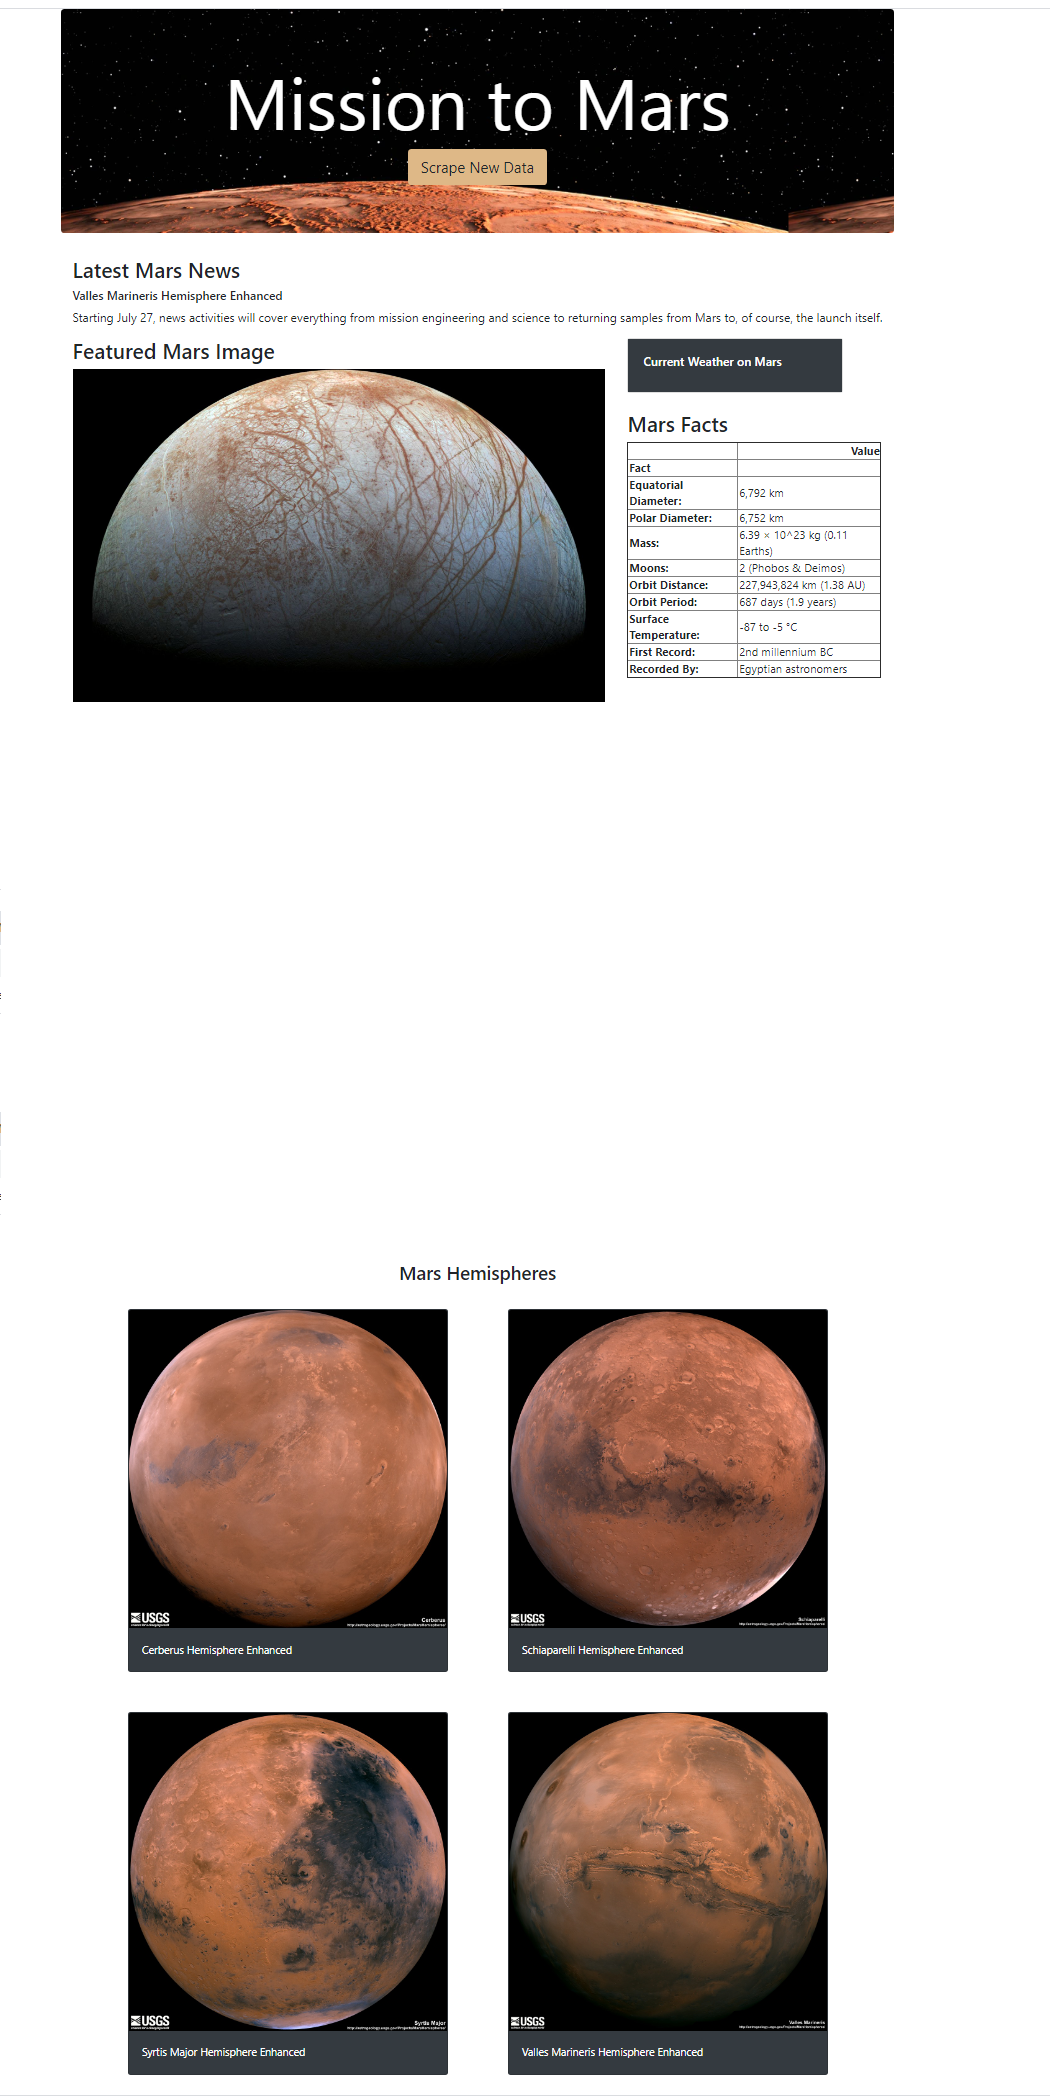
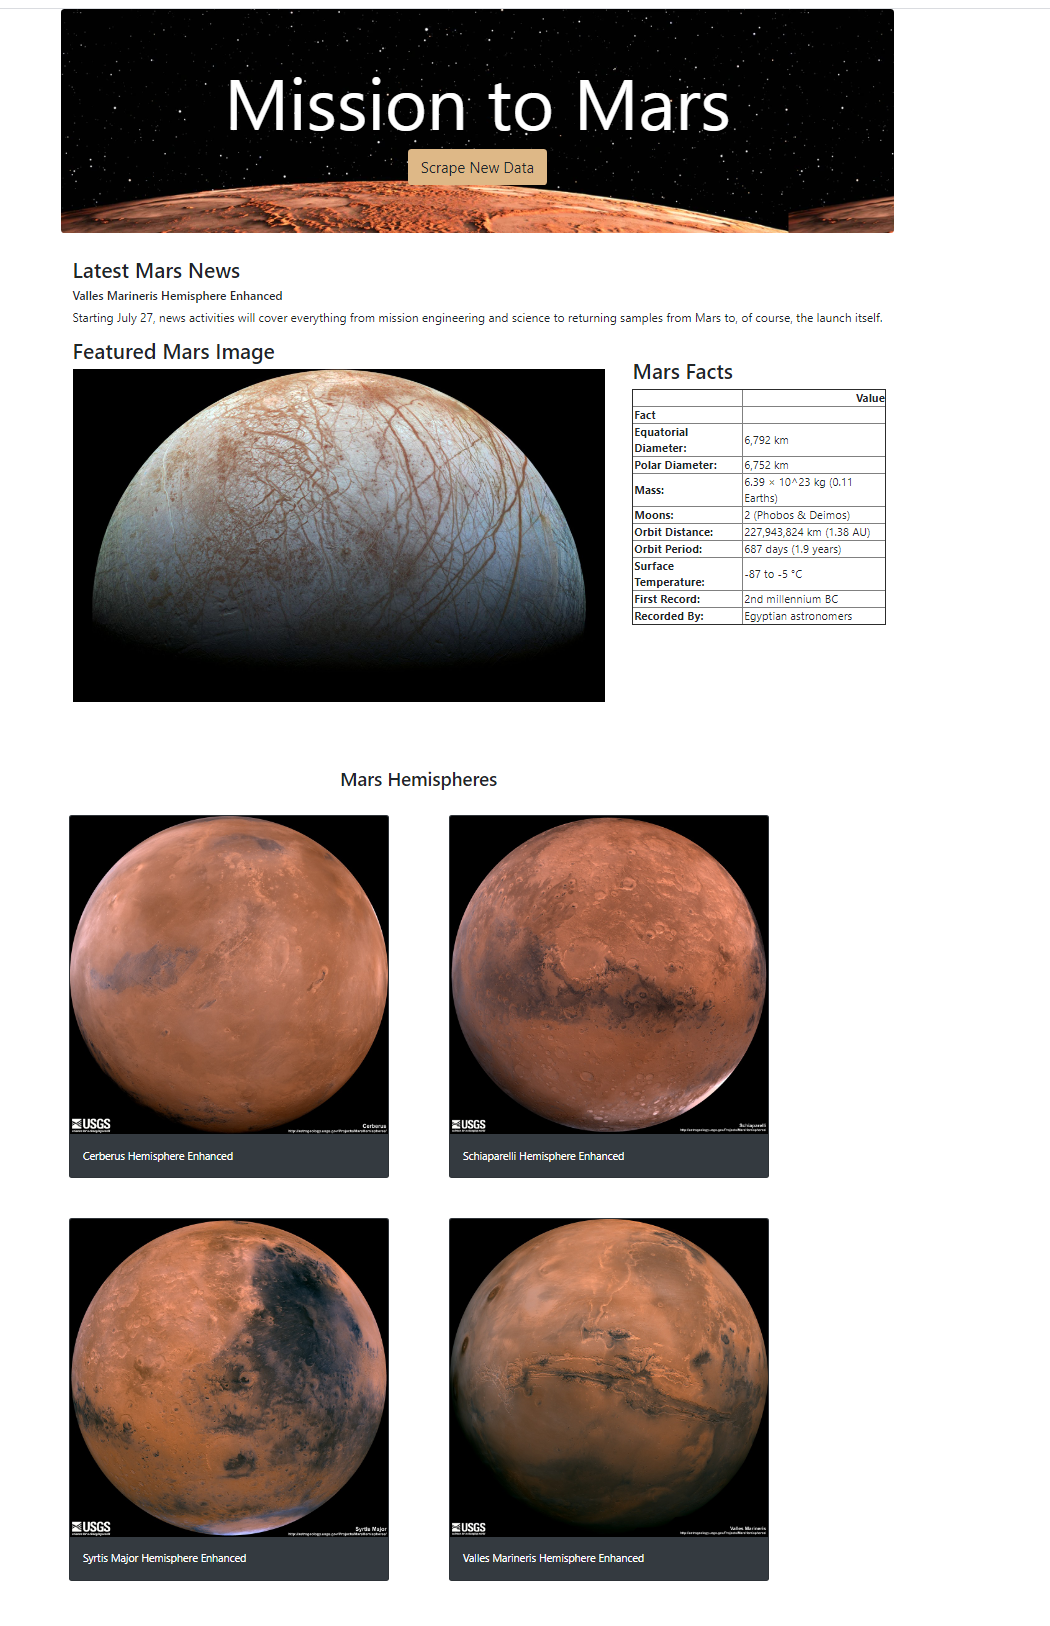
updated index.html

diff --git a/Mission_to_Mars/templates/index.html b/Mission_to_Mars/templates/index.html
@@ -41,11 +41,11 @@
                 <!-- Weather Card -->
                 <div class="col-lg-4 col-md-4 col-sm-12">
 
-                    <div class="card" style="width: 18rem;">
-                        <div class="card-body text-white bg-dark">
-                            <h6 class="card-title">Current Weather on Mars</h6>
-                            <p class="card-text">{{ mars_data.Mars_Weather_Data }}</p>
-                        </div>
+                     <div class="card" style="width: 18rem;"> 
+                        <!-- <div class="card-body text-white bg-dark"> -->
+                             <!-- <h6 class="card-title">Current Weather on Mars</h6>  -->
+                             <p class="card-text">{{ mars_data.Mars_Weather_Data }}</p>
+                        <!-- </div> -->
 
                     </div>
 
